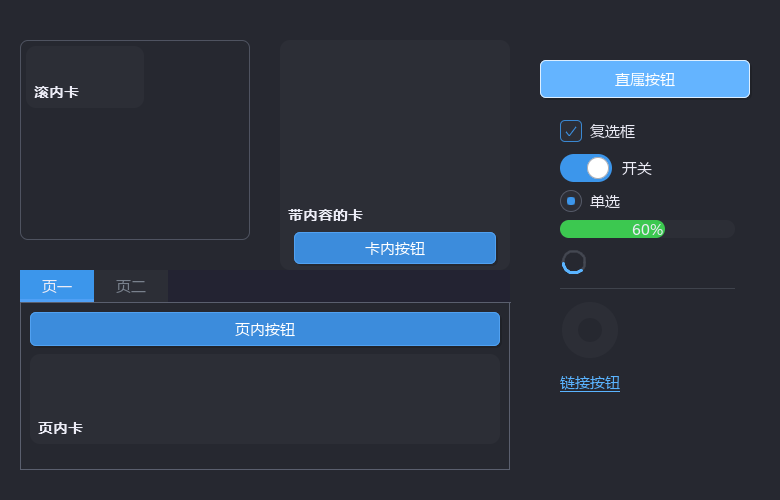
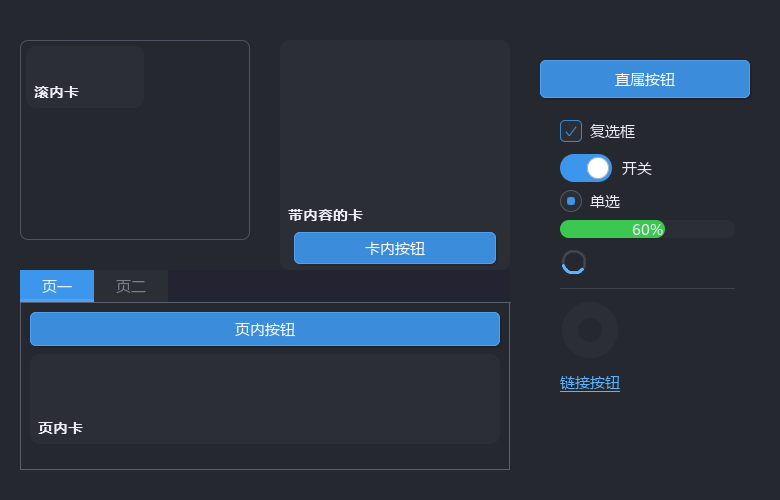
fix(LenoSDL3): 消掉「圆角图片每帧每卡离屏合成」导致的 Card 闪烁（合成结果按卡缓存）
症状（海报墙实测）：鼠标移过卡片（触发整帧重绘）时，卡片区域在闪 ✗

机制（代码级确证，不是猜）：Card.render 每帧对每张海报调用 drawTextureRounded，后者内部要\\n「关裁剪 → setRenderTarget → SDL_RenderClear → 贴回」⇒ 22 张卡 = **每帧 22 次切渲染目标 + 22 次 Clear** ✗。\\n而框架自己的注释就写着这条规律：窗口层特意用 fillRect 代替 SDL_RenderClear，理由是 **D3D 后端上\\nSDL_RenderClear 会出现「短暂黑闪」**（sdl_window.leno 的 run()）⇒ 同一条规律放大到\\n「每帧 22 次」就是肉眼可见的 Card 闪烁 ✓

修法（零观感损失）：\\n· 渲染器：新增 Renderer.composeRoundedTexture(out, tex, srcrect, w, h, radius) —— 把原内联合成\\n  原样搬过来（同一把蒙版 rrGet/rrLadder、同一个自定义混合模式 maskAlphaBlend、同样的 alpha 口径：\\n  合成期 alphaScale 临时置 1、贴回时恰好乘一次）；out 尺寸不符时 **返回 null 而不销毁它**\\n  （谁持有谁释放）；drawTextureRounded 改为调用它（对外行为不变）\\n· Card：缓存 rrTex + 一个键（源纹理 / 裁切源矩形 / 目标尺寸 / 半径 / 着色），任一变化才重建\\n  （clear_tex / set_image_radius / dispose 都会 drop_rr()）⇒ 稳态每帧只**贴一张普通纹理**\\n  （0 次切 target、0 次 Clear）

验收（可复现）：\\n· 同尺寸 1180x780 改前 vs 改后截图 **MD5 完全相同**（32A52D2C47…）⇒ 零视觉回归 ✓，\\n  同时反证缓存路径真的生效（否则圆角退化成方角 ⇒ 像素必然不同 ✗）\\n· WALL_SIZE=900x600（缓存按新尺寸重建）✓；详情页 image_radius:14 大图 ✓；列表视图 ✓\\n· 自测 test_card / test_opacity / test_table_image_cache / test_theme_switch /\\n  test_scrim_resize（带 PROBE_SHOT）全部 exit=0 ✓

文档：LenoSDL3_裁剪过多导致闪烁排查记录.md 新增 §7.1（机制 / 修法 / 验收表 + 一个坑：\\n用户正在动鼠标会让 hover 变化 ⇒ 截帧必然不同 ⇒ 别把「鼠标移动」误判成「闪烁」✗）

Changed region(s): [[0.6769, 0.12, 0.9846, 0.21]]

diff --git a/docs/LenoSDL3_裁剪过多导致闪烁排查记录.md b/docs/LenoSDL3_裁剪过多导致闪烁排查记录.md
@@ -226,8 +226,45 @@ for ($y = 0; $y -lt $a.Height; $y += 4) {
 3. **SSAA 下的 clip 截断**（§2.3）：本界面 `aa` 未开，故排除；但若把界面切到 `aa:2` 需复查。
 4. **其它**：文字纹理缓存淘汰（§2.5）；控件内部每帧分配（可继续按 §4 的思路逐个清）。
 
+### 7.1 ★ 2026-10-13：抓到一条**确定**的闪烁源 —— 圆角图片的「每帧每卡」离屏合成（已修 ✓）
+
+**案发现场**：`leno_gui/应用/影视海报墙/movie_wall.leno`（22 张 `image_radius: 10/14` 的海报卡）。
+症状 = **鼠标移过卡片（触发整帧重绘）时，卡片区域在闪** ✗。
+
+**机制（代码级确证 ✓，不是猜）**：`Card.render` 每帧对每张海报调用 `drawTextureRounded`，
+后者内部要「关裁剪 → `setRenderTarget` → **`SDL_RenderClear`** → 贴回」✗
+⇒ 22 张卡 = **每帧 22 次切渲染目标 + 22 次 Clear** ✗。
+而**本框架自己的注释**就写着这条规律：窗口层特意用 `fillRect` 代替 `SDL_RenderClear`，
+理由是 **D3D 后端上 `SDL_RenderClear` 会出现「短暂黑闪」**（见 `sdl_window.leno` 的 `run()`）
+⇒ 同一条规律放大到"每帧 22 次"就是肉眼可见的 **Card 闪烁** ✓。
+
+**修法（不牺牲观感 ✓：把合成结果缓存成一张离屏纹理，每卡一张）**
+
+- **渲染器侧**：新增 `Renderer.composeRoundedTexture(out, tex, srcrect, w, h, radius)` ——
+  把原内联合成**原样搬过来**（同一把蒙版 `rrGet`/`rrLadder` ✓、同一个自定义混合模式
+  `maskAlphaBlend` ✓、同样的 alpha 口径：**合成期 `alphaScale` 临时置 1、贴回时恰好乘一次** ✓）。
+  `out` 尺寸不符时**返回 null 而不销毁它** ✗（谁持有谁释放 ⇒ 由调用方决定 ✓）；
+  `drawTextureRounded` 改为调用它（共享离屏那条路径对外行为不变 ✓）。
+- **Card 侧**：缓存 `rrTex` + 一个**键**（源纹理 / 裁切源矩形 / 目标尺寸 / 半径 / 着色 ✓），
+  任一变化才重建（`clear_tex` / `set_image_radius` / `dispose` 都会 `drop_rr()` ✓）
+  ⇒ 稳态每帧只**贴一张普通纹理**（**0 次切 target、0 次 Clear** ✓）。
+
+**验收（可复现 ✓）**
+
+| 检查 | 结果 |
+| --- | --- |
+| 同尺寸（1180×780）改前 vs 改后截图 | **MD5 完全相同**（`32A52D2C47…`）⇒ **零视觉回归** ✓；同时**反证缓存路径真的生效**（否则圆角会退化成方角 ⇒ 像素必然不同 ✗）✓ |
+| 换尺寸（`WALL_SIZE=900x600`） | 圆角正常、图片无残留 ⇒ 缓存按新尺寸重建 ✓ |
+| 详情页（`image_radius:14` 大图）/ 列表视图 | 均正常 ✓ |
+| 截图可比性（同参数跑两遍） | MD5 完全一致 ⇒ 这套 pixel 比对方法成立 ✓ |
+
+**⚠ 排查时踩到的一个坑（写下来避免重犯 ✗）**：用"同一静态画面在不同时刻各截一帧"判闪烁时，
+**用户正在动鼠标**会让 hover 状态变化 ⇒ 帧必然不同 ✗ ⇒ 会把"**鼠标移动**"误判成"**闪烁**" ✗
+（本次就踩了 ✓）。判定闪烁必须让鼠标**静止在画面外**，或先确认"本段没有鼠标输入"再比帧 ✓。
+
 **要回答的三个问题**（有信息才能继续定位，不然只能猜）：
 ① 哪个页面闪？② 什么时候闪（鼠标移过 / 滚动 / 静止）？③ 局部闪还是整窗白闪一下？
+（★ §7.1 已答掉一例：**海报墙 + 鼠标移过 + 局部卡片** ✓；其余场景仍按这三个问题收信息 ✓）
 
 ---
 
